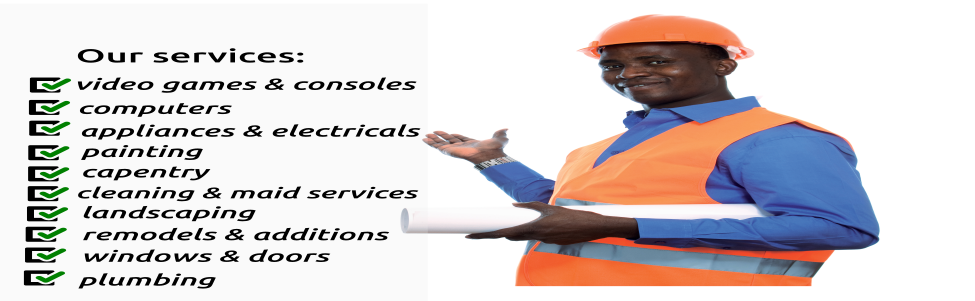
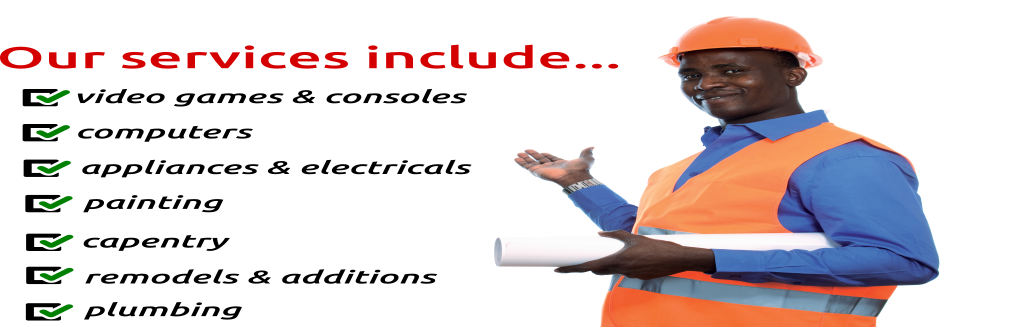
created our services page

diff --git a/views/tasks/task-form.html b/views/tasks/task-form.html
@@ -75,16 +75,10 @@
                 </div>
                 <div class="item">
                     <img src="/images/fixed.png" alt="" width="460" height="345">
-                </div>
-                                                                                                                                                                                                                                                                                                                                                                                                                                                                                                                                                                                                                                                                                                                                                                                                                                                                                                                                                                                                                                                                                                                                                                                                                                                                                                                                                                                                                                                                                                                                                                                                                                                                                                                                                                                                                                                                                                                                                                                                                                                                                                                                                                                                                                                                                                                                                                                                                                                                                                                                                                                                                                                                                                                                                <!-- <div class="item">
-                                                                                                                                                                                                                                                                                                                                                                                                                                                                                                                                                                                                                                                                                                                                                                                                                                                                                                                                                                                                                                                                                                                                                                                                                                                                                                                                                                                                                                                                                                                                                                                                                                                                                                                                                                                                                                                                                                                                                                                                                                                                                                                                                                                                                                                                                                                                                                                                                                                                                                                                                                                                                                                                                                                                                    <img src="/images/capenters.jpg" alt="" width="460" height="345">
-                                                                                                                                                                                                                                                                                                                                                                                                                                                                                                                                                                                                                                                                                                                                                                                                                                                                                                                                                                                                                                                                                                                                                                                                                                                                                                                                                                                                                                                                                                                                                                                                                                                                                                                                                                                                                                                                                                                                                                                                                                                                                                                                                                                                                                                                                                                                                                                                                                                                                                                                                                                                                                                                                                                                                </div>
-                                                                                                                                                                                                                                                                                                                                                                                                                                                                                                                                                                                                                                                                                                                                                                                                                                                                                                                                                                                                                                                                                                                                                                                                                                                                                                                                                                                                                                                                                                                                                                                                                                                                                                                                                                                                                                                                                                                                                                                                                                                                                                                                                                                                                                                                                                                                                                                                                                                                                                                                                                                                                                                                                                                                                <div class="item">
-                                                                                                                                                                                                                                                                                                                                                                                                                                                                                                                                                                                                                                                                                                                                                                                                                                                                                                                                                                                                                                                                                                                                                                                                                                                                                                                                                                                                                                                                                                                                                                                                                                                                                                                                                                                                                                                                                                                                                                                                                                                                                                                                                                                                                                                                                                                                                                                                                                                                                                                                                                                                                                                                                                                                                    <img class="img-responsive" src="/images/elec.jpg" alt="" width="460" height="345">
-                                                                                                                                                                                                                                                                                                                                                                                                                                                                                                                                                                                                                                                                                                                                                                                                                                                                                                                                                                                                                                                                                                                                                                                                                                                                                                                                                                                                                                                                                                                                                                                                                                                                                                                                                                                                                                                                                                                                                                                                                                                                                                                                                                                                                                                                                                                                                                                                                                                                                                                                                                                                                                                                                                                                                </div>
-                                                                                                                                                                                                                                                                                                                                                                                                                                                                                                                                                                                                                                                                                                                                                                                                                                                                                                                                                                                                                                                                                                                                                                                                                                                                                                                                                                                                                                                                                                                                                                                                                                                                                                                                                                                                                                                                                                                                                                                                                                                                                                                                                                                                                                                                                                                                                                                                                                                                                                                                                                                                                                                                                                                                                <div class="item">
-                                                                                                                                                                                                                                                                                                                                                                                                                                                                                                                                                                                                                                                                                                                                                                                                                                                                                                                                                                                                                                                                                                                                                                                                                                                                                                                                                                                                                                                                                                                                                                                                                                                                                                                                                                                                                                                                                                                                                                                                                                                                                                                                                                                                                                                                                                                                                                                                                                                                                                                                                                                                                                                                                                                                                    <img class="img-responsive" src="/images/phones.jpg" alt="" width="460" height="345">
-                                                                                                                                                                                                                                                                                                                                                                                                                                                                                                                                                                                                                                                                                                                                                                                                                                                                                                                                                                                                                                                                                                                                                                                                                                                                                                                                                                                                                                                                                                                                                                                                                                                                                                                                                                                                                                                                                                                                                                                                                                                                                                                                                                                                                                                                                                                                                                                                                                                                                                                                                                                                                                                                                                                                                </div> -->
+                </div>                                                       <!-- <div class="item">
+                                                                                                                                                                                                                                                                                                                                                                                                                                                                                                                                                                                                                                                                                                                                                                                                                                                                                                                                                                                                                                                                                                                                                                                                                                                                                                                                                                                                                                                                                                                                                                                                                                                                                                                                                                                                                                                                                                                                                                                                                                                                                                                                                                                                                                                                                                                                                                                                                                                                                                                                                                                                                                                                                                                                                >
+                                                                                                                                                                                                                                                                                                                                                                                                                                                                                                                                                                                                                                                                                                                                                                                                                                                                                                                                                                                                                                                                                                                                                                                                                                                                                                                                                                                                                                                                                                                                                                                                                                                                                                                                                                                                                                                                                                                                                                                                                                                                                                                                                                                                                                                                                                                                                                                                                                                                                                                                                                                                                                                                                                                                                                                                                                                                                                                                                                                                                                                                                                                                                                                                                                                                                                                                                                                                                                                                                                                                                                                                                                                                                                                                                                                                                                                                                                                                                                                                                                                                                                                                                                                                                                                                                                                                                                                                                                                                                                                                                                                                                                                                                                                                                                                                                                                                                                                                                                                                                                                                                                                                                                                                                                                                                                                                                                >
+                                                                                                                                                                                                                                                                                                                                                                                                                                                                                                                                                                                                                                                                                                                                                                                                                                                                                                                                                                                                                                                                                                                                                                                                                                                                                                                                                                                                                                                                                                                                                                                                                                                                                                                                                                                                                                                                                                                                                                                                                                                                                                                                                                                                                                                                                                                                                                                                                                                                                                                                                                                                                                                                >
             </div>
             <!-- Left and right controls -->
             <!-- <a class="left carousel-control" href="#myCarousel" role="button" data-slide="prev">

diff --git a/views/ourservices.html b/views/ourservices.html
@@ -5,7 +5,7 @@
     <meta charset="UTF-8">
     <meta http-equiv="X-UA-Compatible" content="IE=edge">
     <meta name="viewport" content="width=device-width, initial-scale=1">
-    <title>IkoFundi | Our services</title>
+    <title>IkoFundi | Our services form</title>
     <!-- Latest compiled and minified CSS -->
     <link rel="stylesheet" href="https://maxcdn.bootstrapcdn.com/bootstrap/3.3.7/css/bootstrap.min.css" integrity="sha384-BVYiiSIFeK1dGmJRAkycuHAHRg32OmUcww7on3RYdg4Va+PmSTsz/K68vbdEjh4u" crossorigin="anonymous">
     <link rel="stylesheet" type="text/css" href="/bootstrap-3.3.6-dist/css/bootstrap.min.css">
@@ -15,7 +15,7 @@
     <!-- Latest compiled and minified JavaScript -->
     <link rel="stylesheet" href="/bootstrap-3.3.6-dist/js/bootstrap.min.js">
     <!-- css styling -->
-    <link rel="stylesheet" type="text/css" href="/styles/ourservices.css" />
+    <link rel="stylesheet" type="text/css" href="/styles/taskform.css" />
 </head>
 
 <body>
@@ -29,7 +29,7 @@
                     <span class="icon-bar"></span>
                     <span class="icon-bar"></span>
                 </button>
-                <a class="navbar-brand" href="#"><img class="img-responsive" src="/images/logo.png" alt="logo"></a>
+                <a class="navbar-brand" href="#"><img class="img-responsive" src="/images/logo.pn" alt="logo"></a>
             </div>
             <div id="navbar" class="navbar-collapse collapse">
                 <!--   <ul class="nav navbar-nav">
@@ -71,44 +71,24 @@
             <!-- Wrapper for slides -->
             <div class="carousel-inner" role="listbox">
                 <div class="item active img-responsive">
-                    <img src="/images/ndfu.jpg" alt="" width="460" height="345">
+                    <img src="/images/fundi-services.png" alt="">
                 </div>
                 <div class="item">
-                    <img src="/images/computer.jpg" alt="" width="460" height="345">
-                </div>
-                <div class="item">
-                    <img src="/images/capenters.jpg" alt="" width="460" height="345">
-                </div>
-                <div class="item">
-                    <img class="img-responsive" src="/images/elec.jpg" alt="" width="460" height="345">
-                </div>
-                <div class="item">
-                    <img class="img-responsive" src="/images/phones.jpg" alt="" width="460" height="345">
+                    <img src="/images/fixed.png" alt="" width="460" height="345">
                 </div>
             </div>
-            <!-- Left and right controls -->
-            <!-- <a class="left carousel-control" href="#myCarousel" role="button" data-slide="prev">
-                <span class="glyphicon glyphicon-chevron-left" aria-hidden="true"></span>
-                <span class="sr-only">Previous</span>
-            </a>
-            <a class="right carousel-control" href="#myCarousel" role="button" data-slide="next">
-                <span class="glyphicon glyphicon-chevron-right" aria-hidden="true"></span>
-              -->
-            <!--  <span class="sr-only">Next</span>
-            </a> -->
         </div>
-        <!-- </div> -->
     </section>
-    {% if categories %}
-    <section>
-    {% for category in categories %}
-      
-        <a href="/taskform"><div id="category" class="thumbnail text-center col-sm-4">
-            {{category.name}}
-        </div></a>
-        
-        
+    <br>
+    <section class="row">
+        <div class="col-sm-6">
+            
+        </div>
+        <div class="col-sm-6">
+            
+        </div>
     </section>
+    
 </body>
 <script src="/js/jquery.js"></script>
 <script src="/js/style.js"></script>

diff --git a/views/index.html b/views/index.html
@@ -51,7 +51,7 @@
                 </ul> -->
                 <ul class="nav navbar-nav navbar-right">
                     <!-- <li></li> -->
-                    <li><a href="/taskform"><span id="navtext">Book a fundi</span></a></li>
+                    <li><a href="/ourservices"><span id="navtext">Our services</span></a></li>
                     <!-- <li class="active"><a href="./">Fixed top <span class="sr-only">(current)</span></a></li> -->
                 </ul>
             </div>
@@ -102,9 +102,9 @@
     <!-- <br> -->
     <section id="booking" class="text-center">
         <h2 id="topquiz">In need of a trusted & reliable fundi?</h2>
-        <a href="/taskform">
+        <a href="/ourservices">
             <button type="button" id="bookfundi" class=" text-center">
-                <h3 id="bookfunditext">Book a Fundi NOW</h3></button>
+                <h3 id="bookfunditext">Our Services</h3></button>
         </a>
     </section>
     <section id="how_it_works" class="container-fluid text-center ">

diff --git a/index.js b/index.js
@@ -37,8 +37,8 @@ var mongoose = require('mongoose');
 var uristring =
     process.env.MONGOLAB_URI ||
     process.env.MONGOHQ_URL ||
-    'mongodb://localhost/washiradb';
-    // 'mongodb://heroku_l1ppn7j1:jmvhcquindesu04pje4d7vlf01@ds133388.mlab.com:33388/heroku_l1ppn7j1';
+    // 'mongodb://localhost/washiradb';
+    'mongodb://heroku_l1ppn7j1:jmvhcquindesu04pje4d7vlf01@ds133388.mlab.com:33388/heroku_l1ppn7j1';
 mongoose.connect(uristring, function(err, res) {
     if (err) {
         console.log('Error connecting to:', uristring);
